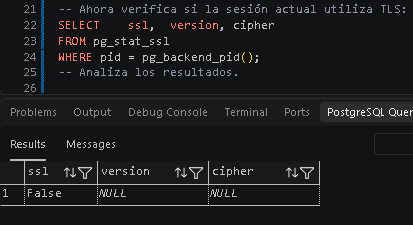
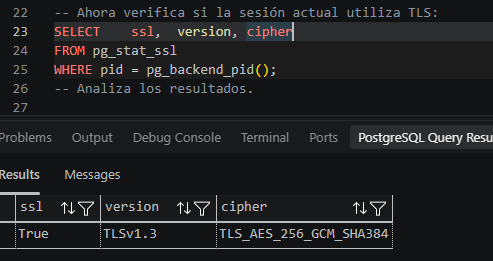
Elaboración y documentación de evidencias completadas, activación de ssl y en la BD del contenedor y elaboración de informe

diff --git a/unidad-02/lab-02-cifrado-credenciales/INFORME.md b/unidad-02/lab-02-cifrado-credenciales/INFORME.md
@@ -1,0 +1,48 @@
+# Informe final
+
+1. **Introducción**\
+En este laboratorio se abordó la protección de la base de datos PostgreSQL mediante mecanismos criptográficos, enfocándose en evitar la exposición de credenciales, datos sensibles en reposo, comunicaciones en tránsito y claves dentro del código.
+
+2. **Protección de credenciales**\
+El texto claro expone directamente las contraseñas. Un hash con salt transforma la contraseña en un valor irreversible e idéntico para verificación. A diferencia del cifrado, el hash no permite recuperar la contraseña original.
+
+3. **Protección de datos sensibles**\
+Se protegió el campo RFC de la tabla de clientes mediante cifrado simétrico con pgp_sym_encrypt(). Se eligió este mecanismo porque los datos sensibles requieren ser recuperados en texto claro por usuarios autorizados utilizando pgp_sym_decrypt().
+
+4. **TLS**\
+TLS resuelve el problema de la interceptación y modificación de datos durante el tránsito en la red. En PostgreSQL se verificó la activación de SSL/TLS mediante SHOW ssl; y se confirmó la sesión cifrada consultando la vista pg_stat_ssl.
+
+5. **Gestión de claves**\
+Las claves criptográficas no deben almacenarse junto con los scripts o en repositorios Git. Incluir secretos en el código (hardcoded) permite que cualquier persona con acceso al historial de cambios recupere las claves y comprometa la seguridad.
+
+6. **Resultados**\
+Se logró proteger la tabla de usuarios almacenando solo hashes de contraseñas, se cifraron las columnas sensibles con funciones de pgcrypted y se estableció exitosamente una conexión cifrada cliente-servidor mediante TLS.
+
+7. **Problemas encontrados**\
+Inicialmente el servidor PostgreSQL en el contenedor Docker tenía la opción ssl = off. Se resolvió generando certificados digitalmente con openssl, cambiando el parámetro ssl = 'on' con ALTER SYSTEM y reiniciando el contenedor.
+
+8. **Conclusiones**\
+La seguridad en bases de datos debe ser integral. El control de acceso por roles debe complementarse con hash de credenciales, cifrado de datos en reposo, TLS para datos en tránsito y un manejo estricto de claves fuera del control de versiones.
+
+## Preguntas de Reflexión
+
+1. **¿Por qué una contraseña no debe almacenarse como texto claro?**\
+Porque si la base de datos se filtra o un usuario no autorizado obtiene acceso de lectura, las credenciales quedan expuestas inmediatamente.
+2. **¿Por qué un hash no es equivalente a un cifrado?**\
+Porque el hash es una transformación matemática unidireccional no reversible, mientras que el cifrado es bidireccional y permite recuperar el texto original usando la clave adecuada.
+3. **¿Por qué el cifrado de una columna no sustituye al control de acceso?**\
+Porque el control de acceso determina qué usuarios tienen permisos para interactuar con la tabla, mientras que el cifrado protege el contenido en caso de que los datos sean leídos directamente del disco o respaldos.
+4. **¿Por qué TLS no sustituye a los mecanismos de autorización de PostgreSQL?**\
+Porque TLS solo protege y autentica el canal de comunicación en tránsito, mientras que la autorización define qué acciones y consultas tiene permitido realizar un usuario dentro del servidor.
+5. **¿Qué ocurriría si una organización pierde una clave utilizada para cifrar información?**\
+La información cifrada no podrá ser descifrada ni recuperada, resultando en una pérdida permanente de los datos.
+6. **¿Qué ocurriría si una clave criptográfica se publica accidentalmente en GitLab?**\
+La clave queda expuesta a cualquier persona con acceso al repositorio. Aunque se borre en un commit posterior, seguirá siendo accesible en el historial de Git.
+7. **¿Por qué un repositorio privado no debe considerarse un almacén de secretos?**\
+Porque reduce la exposición pública, pero conserva los secretos en el historial de commits al que tienen acceso múltiples desarrolladores y copias locales.
+8. **¿Qué diferencia existe entre proteger información almacenada y proteger información durante su transmisión?**\
+Proteger información almacenada (en reposo) previene la lectura en archivos, discos o respaldos mediante cifrado o hash, mientras que proteger información en transmisión (en tránsito) evita la interceptación en la red usando TLS.
+9. **¿Por qué la gestión de claves es tan importante como el algoritmo criptográfico?**\
+Porque aunque el algoritmo criptográfico sea matemáticamente indestructible, si la clave se expone, pierde o almacena de forma insegura, toda la protección del sistema se anula.
+10. **¿Qué mecanismo adicional implementarías en una organización para proteger los respaldos de las bases de datos?**\
+Implementaría el cifrado directo de los archivos de respaldo en reposo antes de transferirlos, gestionando las claves de cifrado en un servicio de administración de secretos externo.

diff --git a/unidad-02/lab-02-cifrado-credenciales/evidencias/10-politica-claves.md b/unidad-02/lab-02-cifrado-credenciales/evidencias/10-politica-claves.md
@@ -1,0 +1,23 @@
+# Actividad 10 — Crear una política mínima de protección de claves
+### Define una política de entre 5 y 10 reglas para la gestión de claves criptográficas.
+
+1. **Generación:** Las claves deben generarse utilizando algoritmos criptográficos estándar y generadores de números aleatorios seguros.   
+1. **Almacenamiento:** Queda estrictamente prohibido guardar claves dentro del código fuente, scripts SQL o repositorios Git; deben gestionarse en un servicio de secretos.   
+1. **Acceso:** El acceso a las claves se restringirá exclusivamente a las aplicaciones o servicios autorizados bajo el principio de mínimo privilegio.   
+1. **Rotación:** Las claves de cifrado deben rotarse periódicamente según el ciclo de vida definido por la organización.   
+1. **Respaldo:** Los respaldos de las claves deben guardarse en un almacén cifrado y físicamente separado de los datos que protegen.   
+1. **Revocación:** Toda clave sospechosa de compromiso debe ser revocada e invalidada inmediatamente.   
+1. **Exposición accidental:** Si una clave se publica en un repositorio o registro, debe considerarse comprometida, rotarse de inmediato y eliminarse del historial.   
+1. **Eliminación:** Al finalizar el ciclo de vida de una clave, se debe destruir mediante procedimientos que garanticen su irrecuperabilidad
+
+Actividad 18 - Verificación final
+- **¿Una contraseña debe cifrarse o protegerse mediante un mecanismo de derivación de claves para contraseñas? R:**\
+Debe protegerse mediante un mecanismo de derivación de claves (hash con salt) para evitar su recuperación directa.   
+- **¿Qué diferencia existe entre enmascaramiento, seudonimización y cifrado? R:**\
+El enmascaramiento oculta parte del dato para visualización; la seudonimización reemplaza identificadores reales por valores ficticios; el cifrado transforma el dato mediante un algoritmo matemático y requiere una clave para volver a leerlo.   
+- **¿Qué problema resuelve TLS? R:**\
+Protege la información en tránsito entre el cliente y el servidor, garantizando confidencialidad, integridad y autenticación de la comunicación.   
+- **¿Dónde debería almacenarse una clave criptográfica en un entorno real? R:**\
+En un gestor de secretos externo o cargada mediante variables de entorno en tiempo de ejecución, nunca en el repositorio.   
+- **¿Es correcto subir una contraseña o clave real a GitLab aunque el repositorio sea privado? R:**\
+No. Un repositorio privado reduce la visibilidad externa, pero conserva el secreto dentro del historial de commits exponiéndolo a usuarios con acceso y copias locales. 

diff --git a/unidad-02/lab-02-cifrado-credenciales/evidencias/01-credenciales.md b/unidad-02/lab-02-cifrado-credenciales/evidencias/01-credenciales.md
@@ -4,6 +4,7 @@
 ### 7.1 El problema
 
 - **¿Qué ocurriría si una persona obtiene acceso de lectura a esta tabla?**
+**R:** Podría ver las contraseñas directamente en texto claro, lo que provocaría que una filtración de la base de datos se convierta en una filtración inmediata de credenciales.
 
 ### Evidencias de querys
 ![evidencia 1](..\recursos\credenciales\01.png)
@@ -13,15 +14,16 @@
 ### 7.3 Generar una representación no reversible
 
 **Preguntas**
-1. **¿Son iguales?**
-
-2. **Si no son iguales, ¿por qué?**
-
-3. **¿Qué función cumple gen_salt()?**
-
-4. **¿Qué función cumple crypt()?**
-
-5. **¿Esto es cifrado reversible?**
+1. **¿Son iguales? R:**
+No
+2. **Si no son iguales, ¿por qué?  R:**
+Porque `gen_salt()` genera un valor aleatorio (salt) distinto en cada ejecución, modificando la representación final.
+3. **¿Qué función cumple gen_salt()? R:**
+Genera una salt aleatoria que se combina con la contraseña para evitar que contraseñas iguales produzcan el mismo hash y proteger contra ataques con tablas precalculadas.
+4. **¿Qué función cumple crypt()? R:**
+Aplica un algoritmo de hashing para derivar un valor criptográfico a partir de la contraseña y la salt.
+5. **¿Esto es cifrado reversible? R:**
+No, es una transformación unidireccional, por lo que no se puede revertir para obtener la contraseña original.
 ### Evidencias de querys
 ![evidencia 4](..\recursos\credenciales\04.png)
 ### 7.4 Crear una tabla para credenciales protegidas
@@ -32,14 +34,15 @@
 ### 7.5 Verificar una contraseña
 
 Preguntas
-1. **¿Qué resultado obtuviste con la contraseña correcta?**
+1. **¿Qué resultado obtuviste con la contraseña correcta? R:**
+Un `true`
 
-1. **¿Qué resultado obtuviste con la contraseña incorrecta?**
-
-1. **¿Por qué no es necesario recuperar la contraseña original?**
-
-1. **¿Por qué un hash no debe confundirse con cifrado?**
-
+1. **¿Qué resultado obtuviste con la contraseña incorrecta? R:**
+Un `false`
+1. **¿Por qué no es necesario recuperar la contraseña original? R:**
+Porque basta con procesar la contraseña ingresada con el mismo hash guardado y comparar si los resultados coinciden para validar el acceso.
+1. **¿Por qué un hash no debe confundirse con cifrado? R:**
+Un hash es unidireccional y no permite recuperar el dato original, mientras que el cifrado es bidireccional y está diseñado para descifrarse cuando existe la clave adecuada.
 ### Evidencias de querys
 ![evidencia 8](..\recursos\credenciales\08.png)
 ![evidencia 9](..\recursos\credenciales\09.png)

diff --git a/unidad-02/lab-02-cifrado-credenciales/evidencias/08-analisis-escenario.md b/unidad-02/lab-02-cifrado-credenciales/evidencias/08-analisis-escenario.md
@@ -1,0 +1,32 @@
+# 15. Actividad 8 — Analizar un escenario de seguridad
+### Considera la siguiente situación:
+Una empresa almacena los siguientes elementos:
+- nombre
+- correo electrónico
+- contraseña
+- RFC
+- información financiera
+- claves criptográficas
+
+La base de datos utiliza usuarios y roles correctamente.\
+Sin embargo:
+- las contraseñas están almacenadas en texto claro
+- el RFC está almacenado en texto claro
+- las conexiones utilizan una configuración sin validación adecuada del servidor
+- las claves criptográficas aparecen en archivos SQL
+- los respaldos se almacenan sin protección adicional
+
+
+**Responde:**
+1. **¿Cuáles son los principales riesgos? R:**\
+Filtración inmediata de contraseñas y datos sensibles al estar en texto claro, exposición de claves en código/SQL, interceptación de tráfico en la red por falta de validación e información vulnerada en respaldos.
+1. **¿Qué mecanismo utilizarías para cada elemento? R:**
+    - Contraseñas: Hash con salt con `bcrypt` o `crypt`.
+    - RFC e información financiera: Cifrado simétrico en reposo con `pgp_sym_encrypt`.   
+    - Conexiones: TLS con validación completa  con `sslmode=verify-full`.   
+    - Claves criptográficas: Almacén de secretos dedicado (Vault o variables de entorno).
+    - Respaldos: Cifrado del archivo de respaldo. 
+1. **¿Cuál de los problemas consideras más crítico y por qué? R:**\
+El almacenamiento de contraseñas y claves en texto claro en archivos SQL, ya que compromete todo el sistema y deja sin efecto cualquier otro mecanismo de defensa.
+1. **¿Tener correctamente configurados los usuarios y permisos elimina estos riesgos? Justifica tu respuesta. R:**\
+No. Los usuarios y permisos regulan la autorización interna, pero no impiden que se lea el tráfico de red, que se sustraiga una copia del archivo de la base de datos o que se expongan claves escritas en código.

diff --git a/unidad-02/lab-02-cifrado-credenciales/evidencias/02-cifrado-datos.md b/unidad-02/lab-02-cifrado-credenciales/evidencias/02-cifrado-datos.md
@@ -11,13 +11,13 @@ Para esta actividad utilizaremos el campo RFC como ejemplo.
 ### 8.2 Recuperar el dato
 
 **Preguntas**
-1. **¿Qué diferencia existe entre crypt() y pgp_sym_encrypt()?**
-
-1. **¿Cuál de los dos mecanismos permite recuperar el dato original?**
-
-1. **¿Qué ocurre si se utiliza una clave incorrecta?**
-
-1. **¿Qué problema de seguridad representa colocar la clave directamente en una consulta?**
-
+1. **¿Qué diferencia existe entre crypt() y pgp_sym_encrypt()? R:**
+`crypt()` genera una representación no reversible (hash) diseñada para verificar contraseñas, mientras que `pgp_sym_encrypt()` realiza un cifrado simétrico bidireccional diseñado para proteger datos que necesitan recuperarse posteriormente.
+1. **¿Cuál de los dos mecanismos permite recuperar el dato original? R:**
+`pgp_sym_encrypt()`, utilizando la función `pgp_sym_decrypt()` junto con la clave secreta correspondiente.
+1. **¿Qué ocurre si se utiliza una clave incorrecta? R:**
+La función `pgp_sym_decrypt()` falla y muestra un error de descifrado, impidiendo recuperar el texto legible original.
+1. **¿Qué problema de seguridad representa colocar la clave directamente en una consulta? R:**
+Constituye una práctica de secreto embebido en código (hardcoded secret), lo que provoca que la clave quede guardada en texto claro dentro de scripts, historiales de consultas, registros del servidor (logs) o repositorios.
 ### Evidencias de querys
 ![evidencia 4](..\recursos\cifrado\04.png)

diff --git a/unidad-02/lab-02-cifrado-credenciales/evidencias/04-tls.md b/unidad-02/lab-02-cifrado-credenciales/evidencias/04-tls.md
@@ -21,13 +21,21 @@ Para resolver este problema se utiliza TLS (Transport Layer Security).
 ### 11.1 Verificar la conexión actual
 
 **Preguntas**
-1. **¿La conexión actual utiliza TLS?**
-1. **¿Qué versión de TLS se está utilizando?**
-1. **¿Qué algoritmo de cifrado aparece?**
-1. **¿Qué diferencia existe entre una conexión protegida con TLS y una conexión sin TLS?**
+1. **¿La conexión actual utiliza TLS?**\
+Sí, el campo `ssl` devuelve `true`.
+1. **¿Qué versión de TLS se está utilizando?**\
+Muestra `TLSv1.2`.
+1. **¿Qué algoritmo de cifrado aparece?**\
+Muestra el conjunto de cifrado activo en la sesión (`TLS_AES_256_GCM_SHA384`).
+1. **¿Qué diferencia existe entre una conexión protegida con TLS y una conexión sin TLS?**\
+TLS cifra el tráfico de red garantizando confidencialidad e integridad, mientras que sin TLS la información viaja en texto claro y puede ser capturada o modificada por terceros en la red.
 ### Evidencias querys
 ![](../recursos/verificacion/tls-05.png)
 ![](../recursos/verificacion/tls-06.png)
 
 ## 12. Actividad 6 — Conexión mediante psql
 
+En mi caso al realizar la practica en Visual Studio Code usando la extensión de PostgreSQL para conectarme a un contenedor de docker con imagen de Postgres:16 opte por llevar a cabo este ejemplo de la manera que se muestra en la imagen de evidencia.
+
+### Evidencias querys
+![](../recursos/verificacion/psql-01.png)

diff --git a/unidad-02/lab-02-cifrado-credenciales/evidencias/03-gestion-claves.md b/unidad-02/lab-02-cifrado-credenciales/evidencias/03-gestion-claves.md
@@ -2,7 +2,7 @@
 ## 9. Actividad 3 — El problema de la gestión de claves
 ### 9.1 Identificar una mala práctica
 
-- **¿Qué ocurriría si esta clave fuera una clave utilizada realmente por una organización y el archivo se publicara en un repositorio Git?**
-
+- **¿Qué ocurriría si esta clave fuera una clave utilizada realmente por una organización y el archivo se publicara en un repositorio Git?**\
+**R:** La clave quedaría expuesta ante personas o sistemas no autorizados. Aunque el archivo se elimine en un commit posterior, la clave permanecerá en el historial de control de versiones de Git, permitiendo que cualquiera con acceso al repositorio la recupere y descifre la información sensible almacenada en la base de datos.
 ### Evidencias de querys
 ![evidencia 1](..\recursos\verificacion\g-claves-01.png)

diff --git a/unidad-02/lab-02-cifrado-credenciales/evidencias/07-comparacion.md b/unidad-02/lab-02-cifrado-credenciales/evidencias/07-comparacion.md
@@ -1,0 +1,10 @@
+# 14. Actividad 7 — Comparar protección en reposo y protección en tránsito
+## Completa la siguiente tabla:
+
+| Situación |Mecanismo apropiado | ¿Qué protege? |
+|-----|------|-------|
+|Contraseña de usuario|Hash con salt (`crypt + gen_salt`)| Autenticación y credenciales en reposo |
+|RFC almacenado en una tabla| Cifrado simétrico (`pgp_sym_encrypt`) | Datos sensibles recuperables en reposo |
+|Consulta enviada desde un cliente al servidor|TLS (`sslmode=require` / `verify-full`) | Información durante su transmisión por red (en tránsito)|
+|Respaldo de una base de datos| Cifrado de archivos de respaldo|Archivos almacenados fuera de la base de datos|
+|Clave criptográfica| Gestor de secretos / Variables de entorno|Las claves que permiten descifrar los datos|
